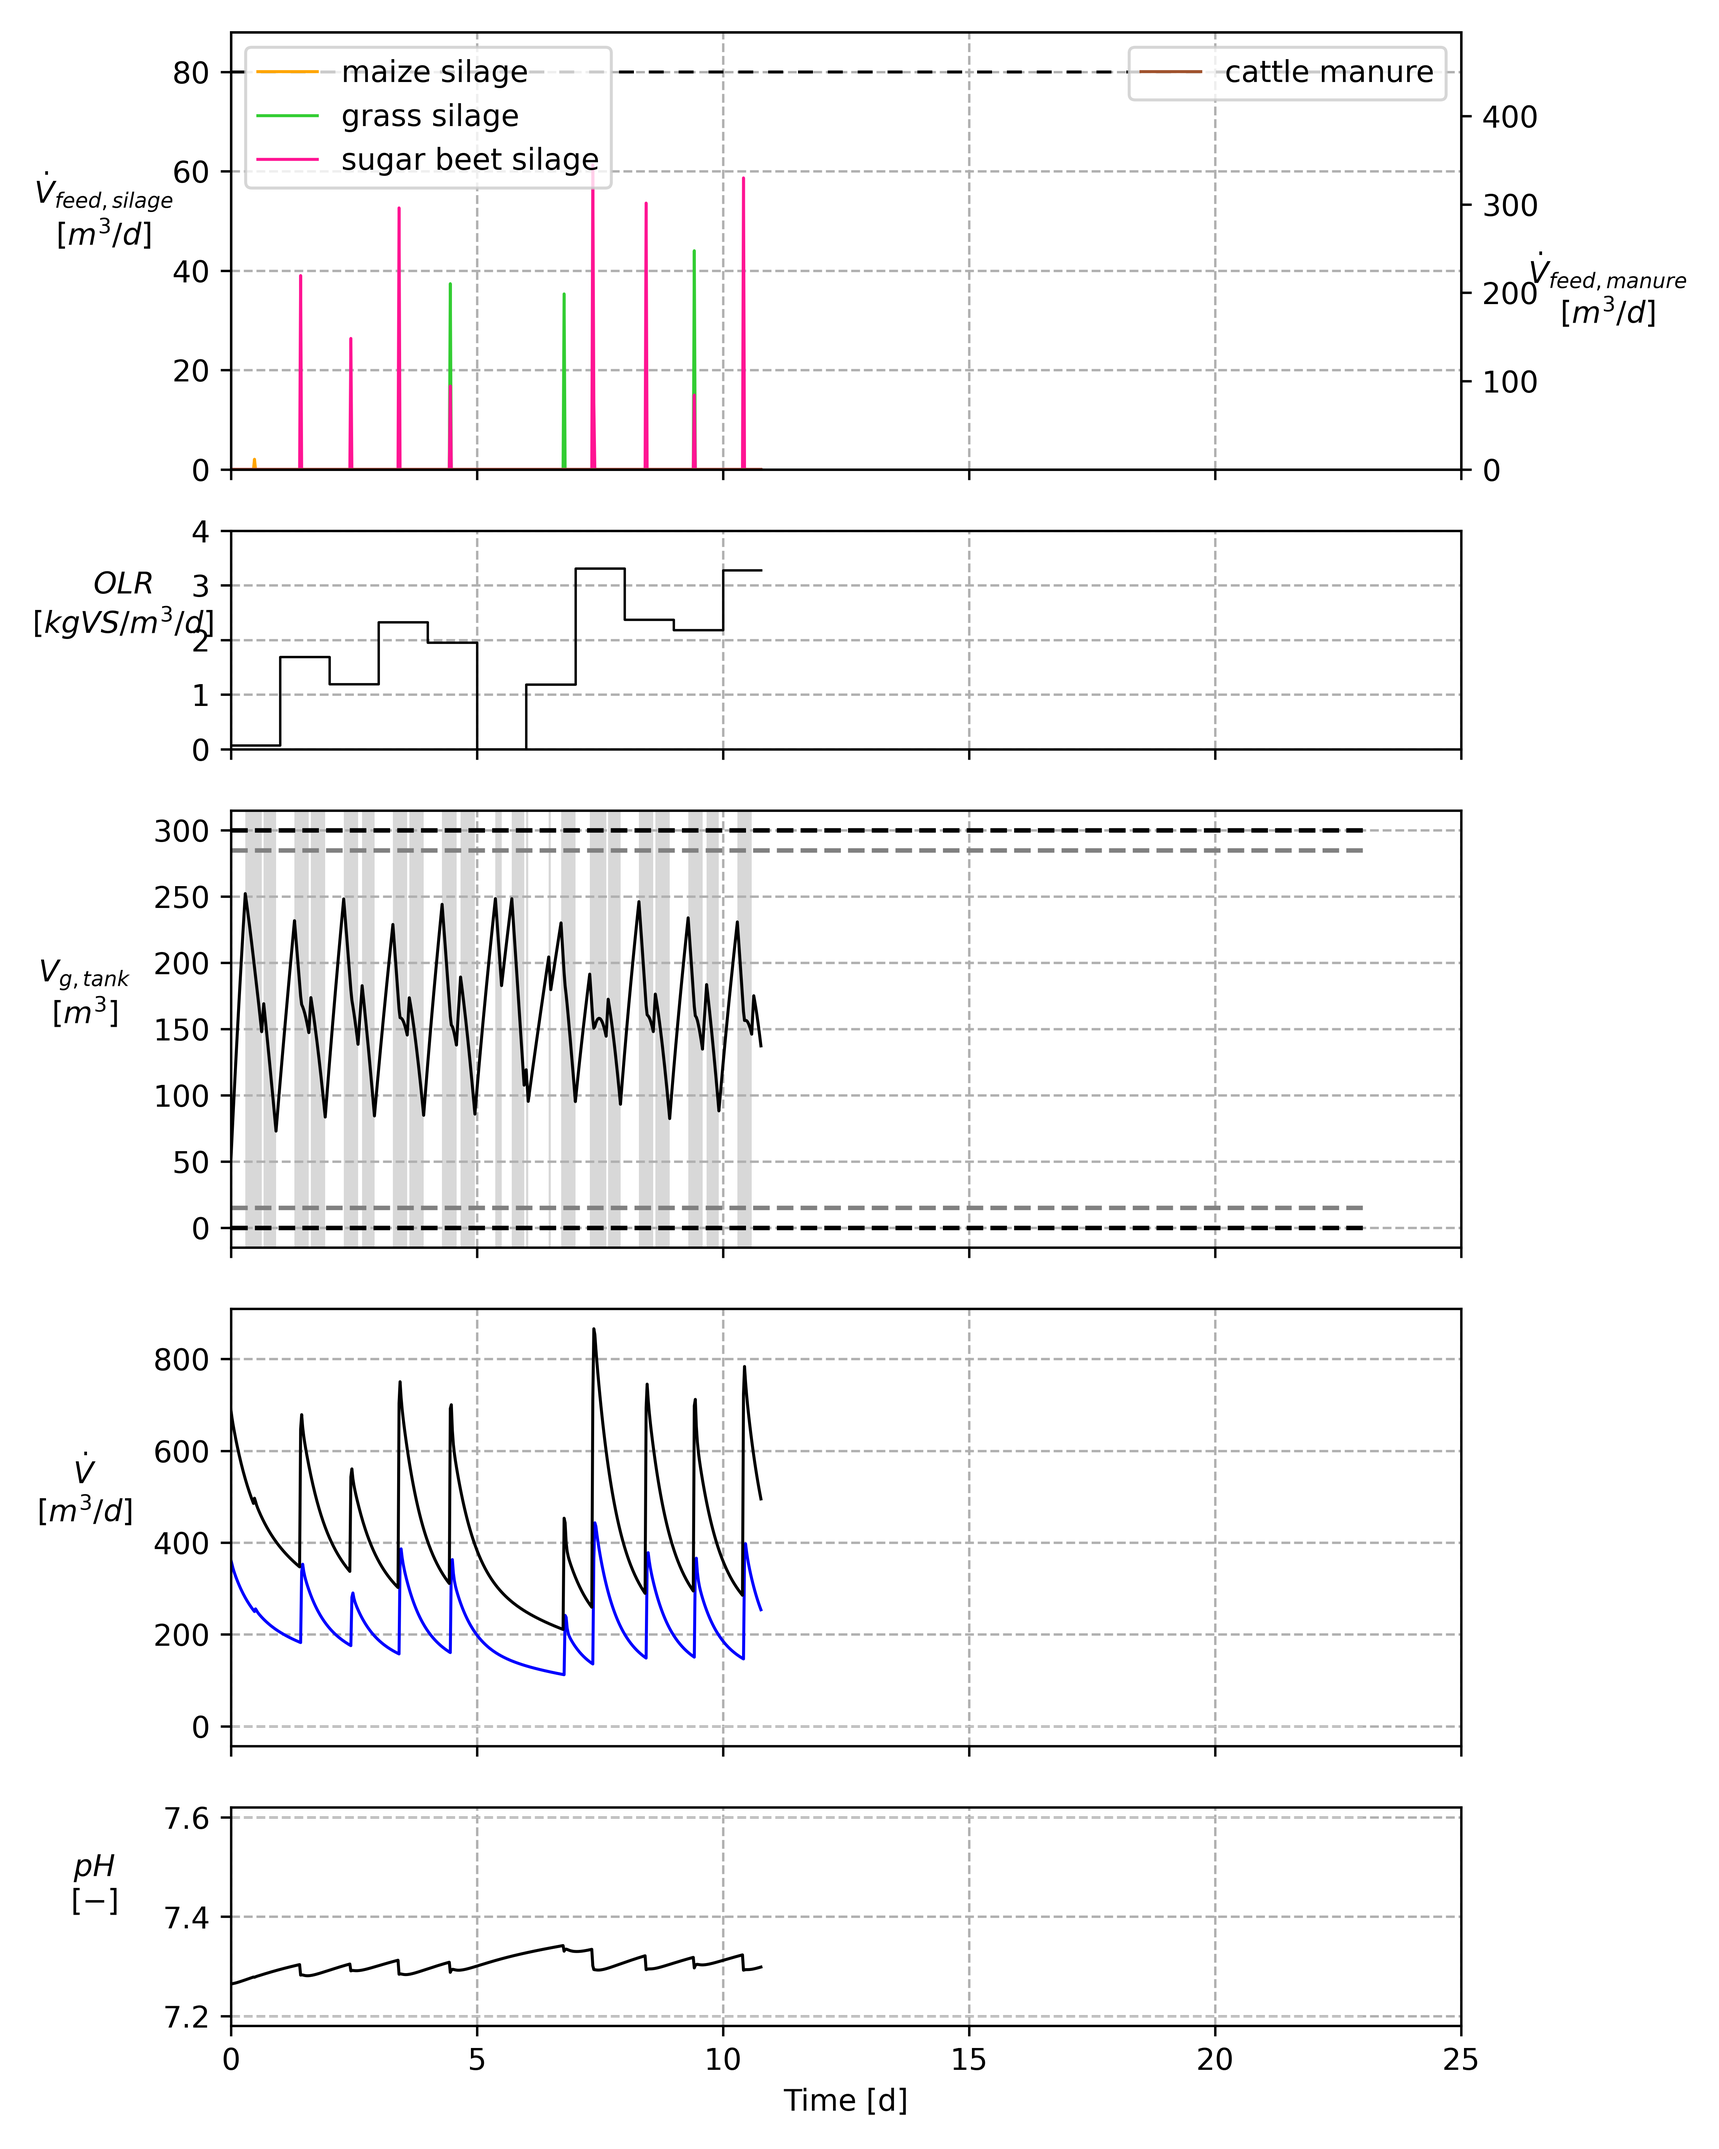
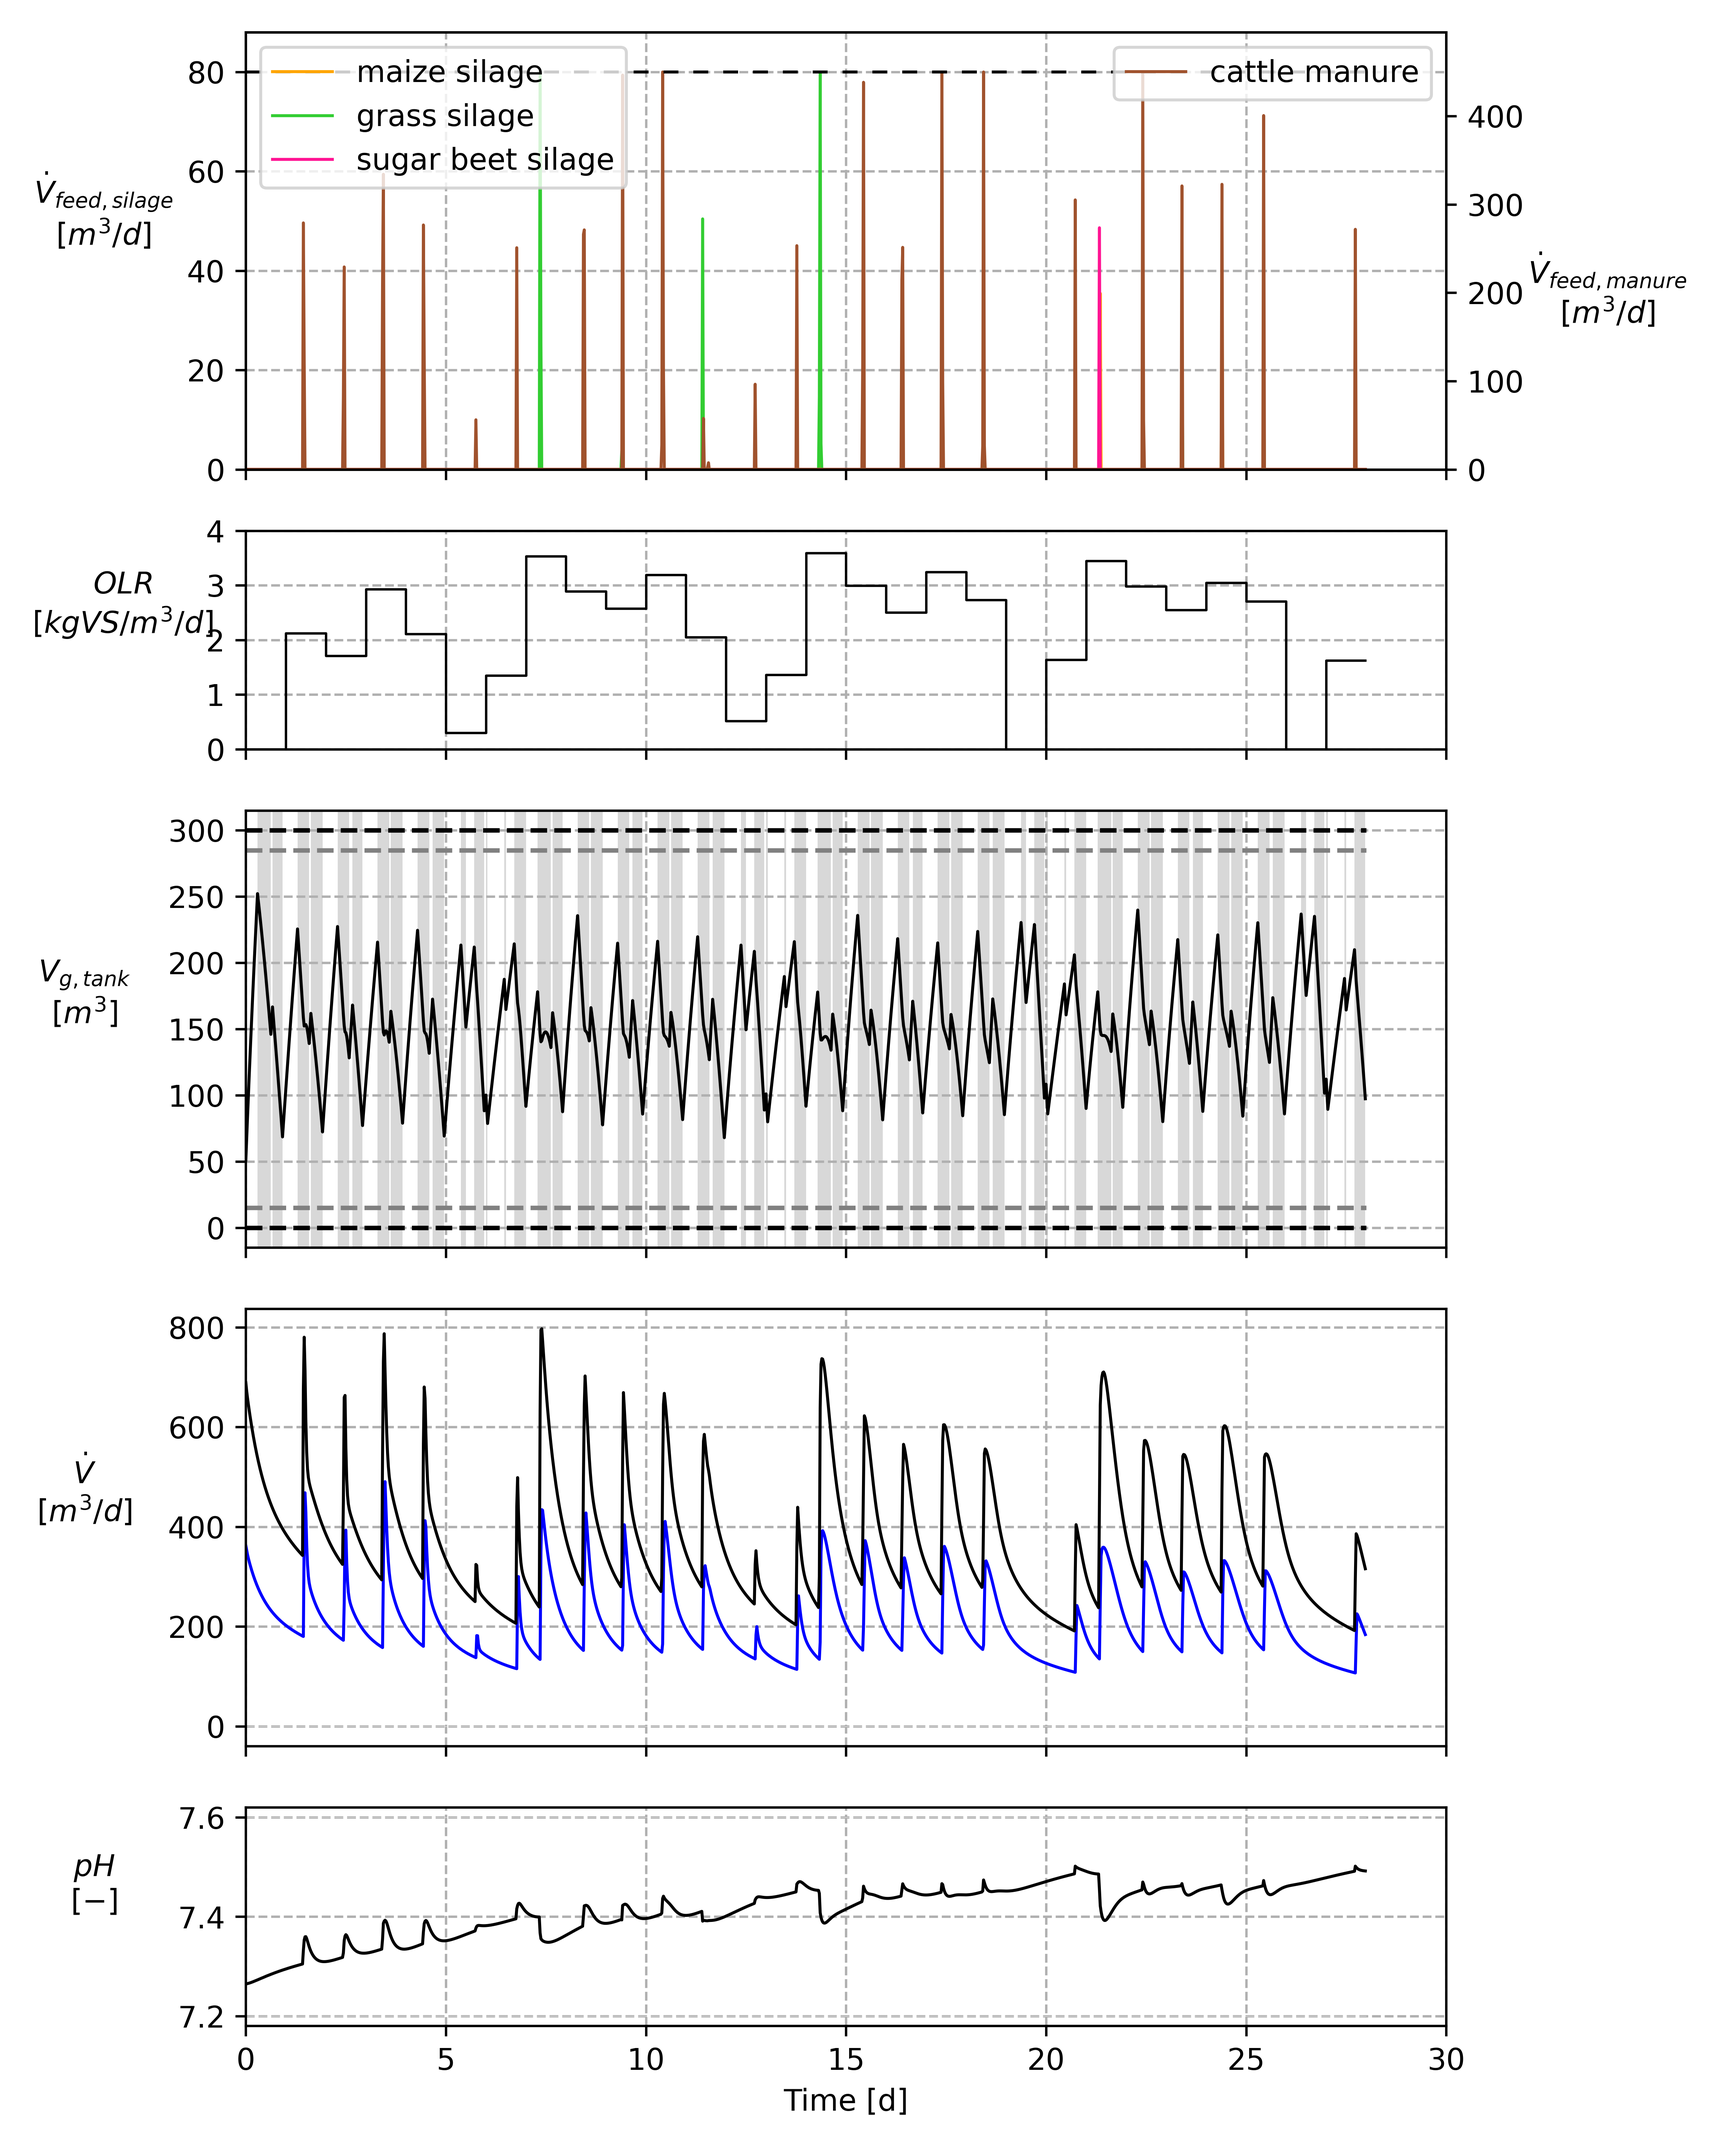
find optimal parameters for Scenario 2a

diff --git a/tests/test_total_computing_time.py b/tests/test_total_computing_time.py
@@ -17,7 +17,7 @@ def read_computation_times(file_path):
 
     return f"{int(hours):02}:{int(minutes):02}:{int(seconds):02}"
 
-my_scenario = '2c'  # '1b' '2a_robust', '2a_nominal', '2c'
+my_scenario = '2a_robust'  # '1b' '2a_robust', '2a_nominal', '2c'
 if my_scenario == '1b':
     scen_name = 'Scenario_1b_quadratic_robust_feedback_mismatch_1.5std_3tsap'
 elif my_scenario == '2a_nominal':

diff --git a/ad_meal_prep_control/scenarios/scenario_2a_nominal.py b/ad_meal_prep_control/scenarios/scenario_2a_nominal.py
@@ -12,8 +12,8 @@ n_std_dev = 2  # number std deviations
 t_step = 0.5 / 24.0
 t_stp_ahead_pred = 8  # for controller plotting
 
-fill_level_setpoint = 0.45
-c_1 = 1e3
+fill_level_setpoint = 0.47
+c_1 = 1e4
 lterm = (f"{c_1} * (model.aux['v_gas_storage']/V_GAS_STORAGE_MAX - {fill_level_setpoint})**2"
          )
 

diff --git a/ad_meal_prep_control/scenarios/scenario_2a_robust.py b/ad_meal_prep_control/scenarios/scenario_2a_robust.py
@@ -12,8 +12,8 @@ n_std_dev = 2  # number std deviations
 t_step = 0.5 / 24.0
 t_stp_ahead_pred = 8  # for controller plotting
 
-fill_level_setpoint = 0.45
-c_1 = 1e3
+fill_level_setpoint = 0.47
+c_1 = 1e4
 lterm = (f"{c_1} * (model.aux['v_gas_storage']/V_GAS_STORAGE_MAX - {fill_level_setpoint})**2"
          )
 
